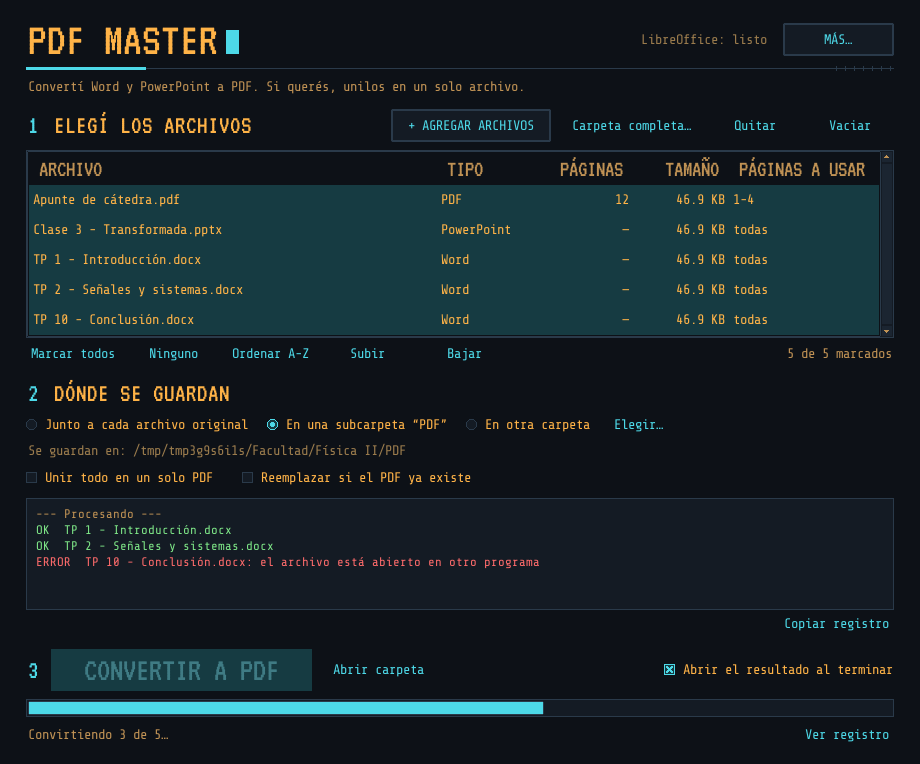
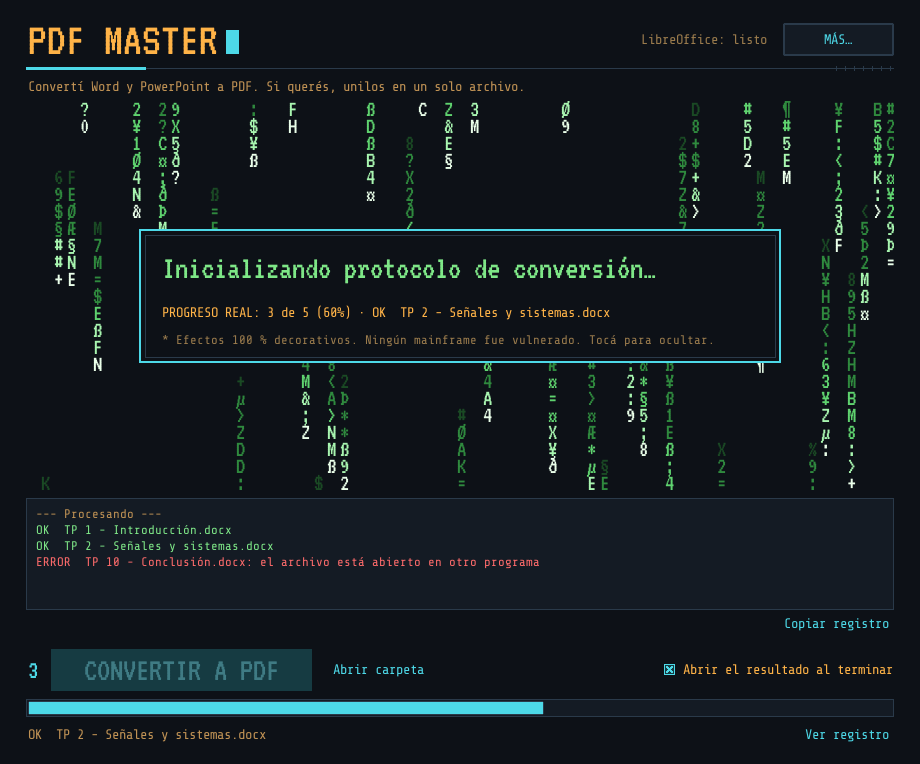
feat: efectos de carga satíricos estilo película de hackers
- Mientras trabaja: lluvia de caracteres verdes y frases grandilocuentes que se
  tipean solas, sobre la parte media de la ventana. Es sátira y lo dice.
- La línea PROGRESO REAL sale de la barra y el registro verdaderos.
- Cartel final: OPERACIÓN COMPLETADA, o COMPLETADO CON OBSERVACIONES y el
  registro se abre solo si algo falló.
- Un clic los oculta; "efectos": false en la config los apaga.
- 5 pruebas nuevas; captura del README con el efecto.

Claude-Session: https://claude.ai/code/session_01W72BZseTuNKBMXKCxcbUAb

diff --git a/tests/test_gui.py b/tests/test_gui.py
@@ -59,3 +59,61 @@ def test_ruta_corta(pm):
     corta = pm.App._corta(largo, 40)
     assert len(corta) <= 42 and corta.endswith("PDF") and "…" in corta
     assert pm.App._corta("C:/corta", 40) == "C:/corta"
+
+
+# ------------------------------------------------------------- efectos (sátira)
+def _esperar(app, condicion, segundos=5):
+    import time
+    fin = time.time() + segundos
+    while time.time() < fin and not condicion():
+        app.update()
+        time.sleep(0.02)
+    return condicion()
+
+
+def test_efectos_aparecen_al_trabajar_y_se_van_solos(app, pm, monkeypatch):
+    monkeypatch.setattr(pm.Teatro, "FINAL_MS", 200)
+
+    def falso(emit):
+        emit("max", 2)
+        emit("prog", 1)
+        emit("log", "OK  uno.docx")
+
+    app._iniciar(falso, ())
+    assert app.teatro is not None
+    assert _esperar(app, lambda: "1 de 2 (50%)" in app.teatro.progreso_real())
+    app.cola.put(("fin", "Listo."))
+    assert _esperar(app, lambda: app.teatro is None)
+    assert str(app.btn_conv.cget("state")) == "normal"
+
+
+def test_con_error_abre_el_registro(app, pm, monkeypatch):
+    monkeypatch.setattr(pm.Teatro, "FINAL_MS", 200)
+    app._iniciar(lambda emit: (emit("log", "ERROR  x.docx: dañado"), emit("fin", "Listo.")), ())
+    assert _esperar(app, lambda: app.log_visible)
+    assert app.teatro is None or app.teatro.final[0] == "COMPLETADO CON OBSERVACIONES"
+
+
+def test_un_clic_oculta_los_efectos(app):
+    app._iniciar(lambda emit: None, ())
+    app.update()
+    app.teatro.c.event_generate("<Button-1>", x=5, y=5, when="now")
+    app.update()
+    assert app.teatro is None
+
+
+def test_efectos_se_pueden_apagar(app):
+    app.cfg["efectos"] = False
+    app._iniciar(lambda emit: emit("fin", "Listo."), ())
+    assert app.teatro is None
+
+
+def test_lluvia_aguanta_ventanas_chicas(app, pm):
+    app.geometry("860x620")
+    app._alternar_log()
+    app._iniciar(lambda emit: None, ())
+    for _ in range(60):
+        app.teatro._cuadro()
+    app.update()
+    assert app.teatro.vivo
+    assert set(pm.Teatro.CARACTERES) <= set(map(chr, range(32, 256)))  # todos están en VT323

diff --git a/tests/captura.py b/tests/captura.py
@@ -68,12 +68,14 @@ def principal():
     for linea in ("--- Procesando ---", "OK  TP 1 - Introducción.docx", "OK  TP 2 - Señales y sistemas.docx",
                   "ERROR  TP 10 - Conclusión.docx: el archivo está abierto en otro programa"):
         app._log(linea)
-    app.v_status.set("Convirtiendo 3 de 5…")
-    app.after(800, trabajando)
+    app.v_status.set("OK  TP 2 - Señales y sistemas.docx")
+    app.teatro = pm.Teatro(app, app.medio)
+    app.after(3200, trabajando)
 
 
 def trabajando():
     foto(app, "trabajando")
+    app.teatro.cerrar()
     app.trabajando = False
     app.abrir_herramientas()
     app._win_herr.geometry("+0+0")

diff --git a/README.md b/README.md
@@ -14,6 +14,12 @@ Convertí tus Word y PowerPoint a PDF de a muchos por vez y, si querés, unilos 
 - **Guarda los PDF** donde digas: junto al original, en una subcarpeta «PDF» o en otra carpeta. Antes de convertir te muestra dónde van a quedar.
 - En el botón **MÁS…**: dividir, comprimir y eliminar páginas (con miniaturas); carpetas automáticas que procesan solas lo que les pongas; enviar los PDF a PDFsam.
 
+### Sobre los efectos de carga
+
+Mientras trabaja, la ventana se llena de una lluvia de caracteres verdes y frases como «Desencriptando la voluntad del autor…» o «Consultando al Oráculo de Ctrl+P…». Es una sátira de las películas de hackers: convertir un Word a PDF no tiene nada de épico. Lo único verdadero en ese recuadro es la línea **PROGRESO REAL**, que sale del mismo contador que la barra de abajo. Un clic oculta los efectos; para no verlos nunca, poné `"efectos": false` en el archivo de preferencias (ver «Qué guarda en tu PC»).
+
+![Efectos de carga mientras convierte](docs/capturas/trabajando.png)
+
 ## Cómo usarlo
 
 **Necesitás:** Windows 10 u 11 y Python 3 instalado desde [python.org](https://www.python.org/downloads/) (la instalación normal ya trae lo necesario).
@@ -65,7 +71,7 @@ Decisiones técnicas que salieron de problemas reales:
 
 ## Qué no se verificó
 
-- **El aspecto en una PC con Windows real.** Las capturas de este README son de Linux. La integración continua corre las pruebas de interfaz y saca capturas en Windows (Python 3.12 y 3.14); los ajustes de escala de pantalla (DPI) de cada PC no los cubre.
+- **El aspecto en tu PC.** Las capturas de este README son de Linux. En Windows, la integración continua corre las pruebas de interfaz y saca capturas (Python 3.12 y 3.14): ahí se comprobó que las fuentes incluidas cargan y que la ventana se ve igual. No cubre los ajustes de escala de pantalla (DPI) de cada PC ni cómo anda la animación en una computadora lenta.
 - **Arrastrar y soltar**, y que **PDFsam** reciba los archivos que le manda el programa.
 - **La instalación de LibreOffice** en una PC limpia con permisos de administrador.
 - **La compresión** se probó con PDF sintéticos: cuánto reduce un PDF real con fotos depende del archivo.

diff --git a/CHANGELOG.md b/CHANGELOG.md
@@ -11,12 +11,13 @@ Formato: versión, qué cambia para quien lo usa y, aparte, lo técnico.
 - La pantalla se ordena en tres pasos numerados: elegir archivos, dónde se guardan, convertir.
 - El menú «Más» pasa a ser el botón **MÁS…** arriba a la derecha.
 - En pantallas bajas (notebooks) la lista se achica y el resto queda visible; al abrir el registro o las opciones de unir, la ventana crece sola si hay lugar.
-- El registro marca en verde lo que salió bien y en rojo lo que falló.
+- El registro marca en verde lo que salió bien y en rojo lo que falló; si algo falló, se abre solo al terminar.
+- Efectos de carga satíricos estilo película de hackers (lluvia de caracteres y frases grandilocuentes). La línea «PROGRESO REAL» es lo único que informa; un clic los oculta y `"efectos": false` en las preferencias los apaga.
 - **Corregido:** el pie de página imprimía la raya larga (—) como un punto (·). Ahora sale bien, con acentos y comillas tipográficas.
 
 **Técnico**
 
-- 47 pruebas automáticas (pytest): motor, motor PDF, conversión real con LibreOffice e interfaz. Corren en Windows y Linux con Python 3.12 y 3.14.
+- 52 pruebas automáticas (pytest): motor, motor PDF, conversión real con LibreOffice e interfaz. Corren en Windows y Linux con Python 3.12 y 3.14.
 - El pie usa una fuente incrustada con Unicode y recortada a los caracteres usados (unos 15 KB por PDF unido).
 - El registro de errores al abrir pasa a `pdf_master_error.log`.
 

diff --git a/CLAUDE.md b/CLAUDE.md
@@ -21,7 +21,8 @@ Instrucciones para Claude Code. Quien dirige no programa profesionalmente: tiene
 5. **Textos de la interfaz y errores en español rioplatense**, claros para alguien no técnico. Sin botones ni textos de más.
 6. **Anticipar Windows:** rutas con espacios y «ñ», archivos descargados bloqueados, permisos, antivirus, WinError 10060, distintos intérpretes de Python.
 7. **Estética:** ámbar (`FG`) = información, cian (`ACENTO`) = lo que se toca. Texto con contraste de 4,5:1 o más. Fuentes VT323 (solo tamaños grandes) y Share Tech Mono; ninguna tiene flechas ni recuadros: usar «»» o palabras.
-8. **Repositorio público.** Nada de datos personales (nombres de usuario de Windows, rutas reales, ubicación, correos) en código, capturas, commits ni issues.
+8. **Los efectos de carga (`Teatro`) son sátira y no pueden mentir:** la línea «PROGRESO REAL» sale de la barra y del registro verdaderos; las frases nunca dicen cosas que el usuario pueda tomar como estado real. Un clic los oculta y `"efectos": false` los apaga.
+9. **Repositorio público.** Nada de datos personales (nombres de usuario de Windows, rutas reales, ubicación, correos) en código, capturas, commits ni issues.
 
 ## Bugs que no hay que reintroducir
 
